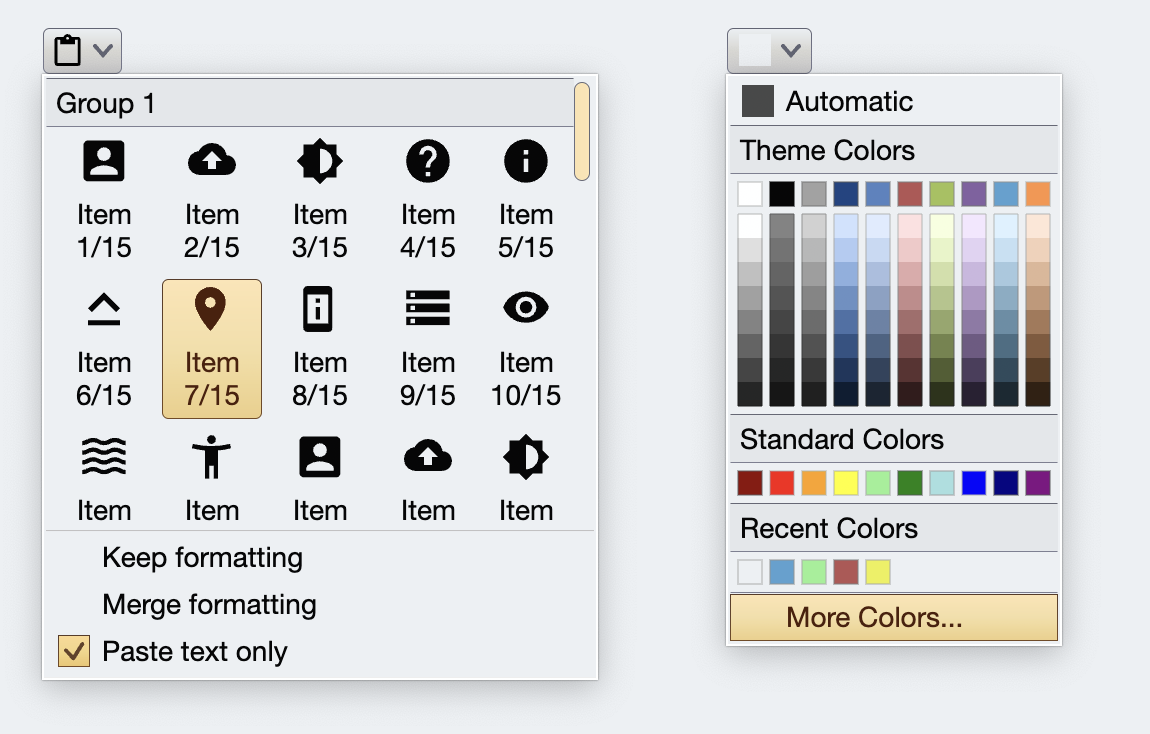
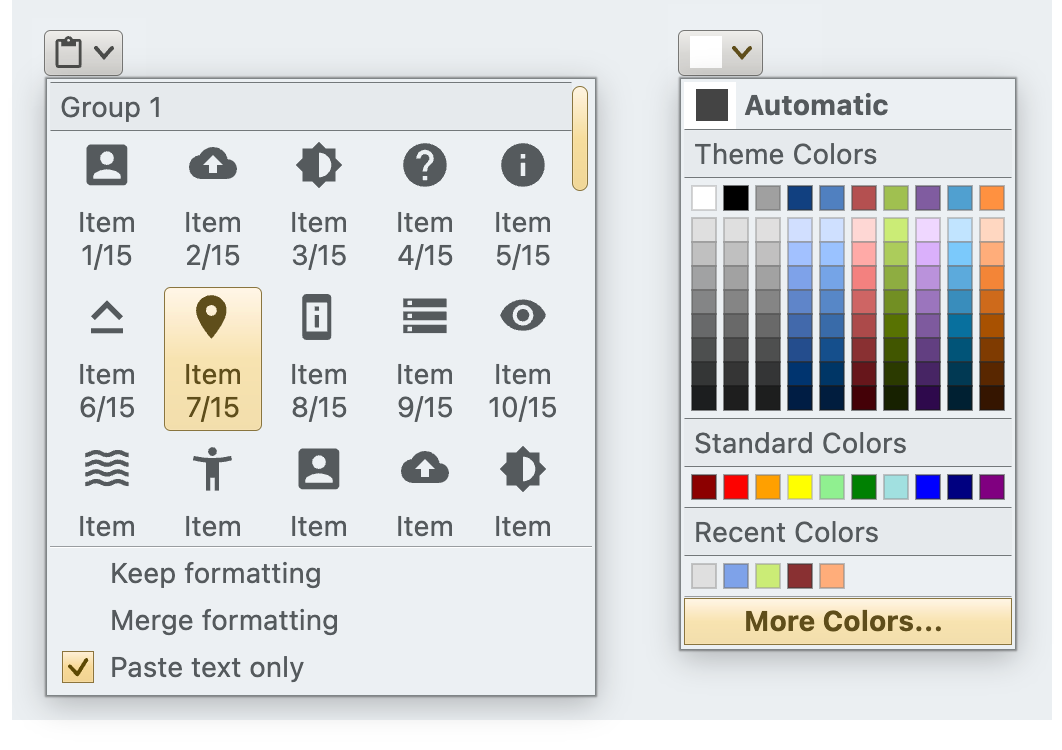
Update color selector screenshots

diff --git a/docs/component/MoreCommands.md b/docs/component/MoreCommands.md
@@ -33,7 +33,7 @@ Aurora commands are meant to be flexible enough to:
 
 First, let's take a look at these two popup menus:
 
-<img src="https://raw.githubusercontent.com/kirill-grouchnikov/aurora/icicle/docs/images/component/walkthrough/command-popups.png" width="575" border=0/>
+<img src="https://raw.githubusercontent.com/kirill-grouchnikov/aurora/icicle/docs/images/component/walkthrough/command-popups.png" width="534" border=0/>
 
 In both cases, the content and the presentation of the command button itself is driven by the same [command content model](Command.md) and by the same [command button presentation model](CommandButtonPresentation.md). However, it is clear that there can be an unbounded variety of **secondary / popup** content that suits individual application needs, and that Aurora should address such requirements.
 

diff --git a/docs/component/CustomCommandProjections.md b/docs/component/CustomCommandProjections.md
@@ -5,7 +5,7 @@ As detailed in the [overview documentation](MoreCommands.md), Aurora commands ar
 * Restrict the command attributes to a smaller subset that is relevant for the particular usage
 * Plug in a custom content secondary content model that is relevant for the particular usage
 
-<img src="https://raw.githubusercontent.com/kirill-grouchnikov/aurora/icicle/docs/images/component/walkthrough/command-popups.png" width="575" border=0/>
+<img src="https://raw.githubusercontent.com/kirill-grouchnikov/aurora/icicle/docs/images/component/walkthrough/command-popups.png" width="534" border=0/>
 
 Let's take a look at all the pieces that participate in creating a custom application command button projection that looks like this:
 
